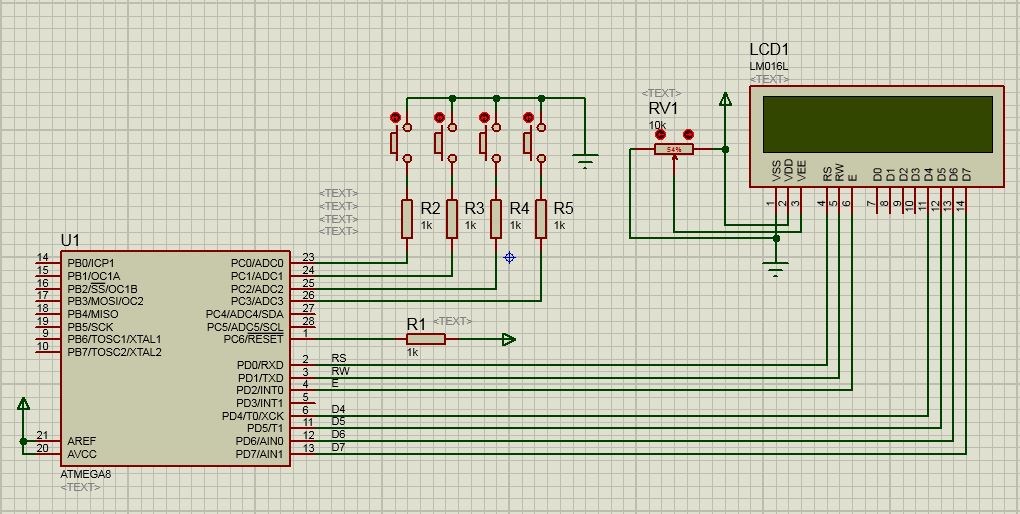
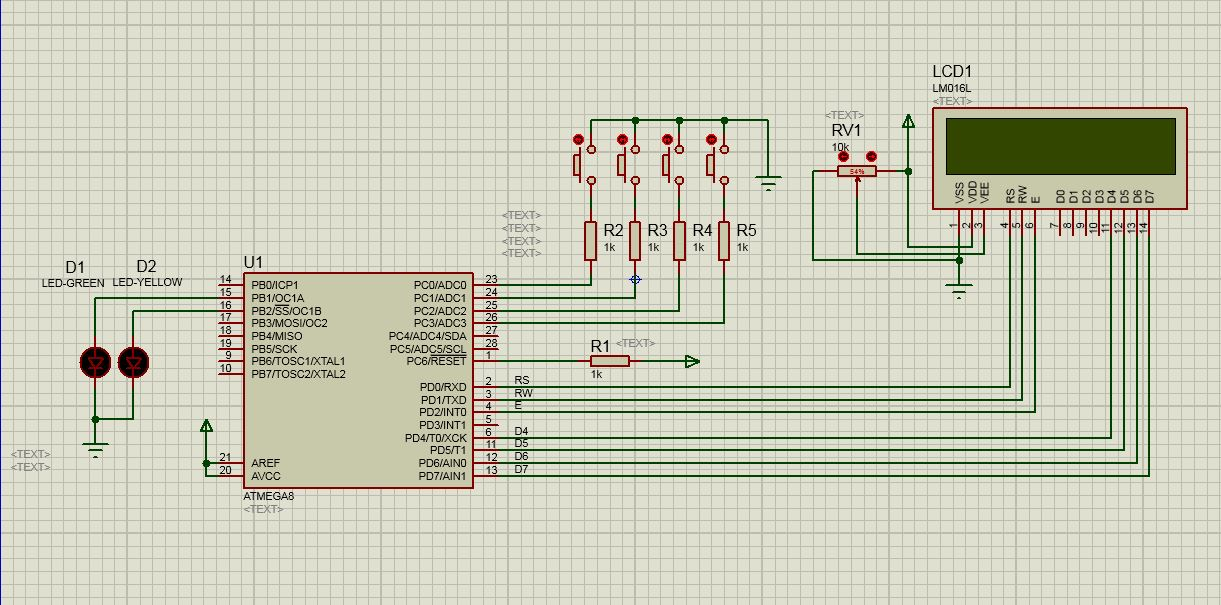
Updated README.md

diff --git a/README.md b/README.md
@@ -6,6 +6,9 @@
 
 #### The main features of the project.  
 The device allows you to control two LED panels using PWM.
-It is built on the ATMega8A controller. The synthesizing display is used
+It is built on the ATMega8A controller. The alphanumeric display is used
 as an indication of the current brightness level
 for each of the control channels. The device is controlled using four buttons.  
+
+The connection diagram of this controller is shown in the figure below.
+![The connection diagram](/Images/Schematic.JPG "Schematic")
